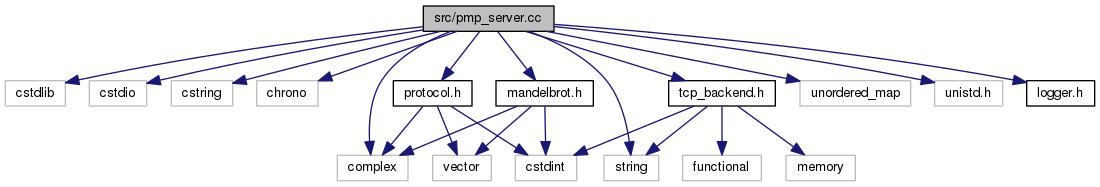
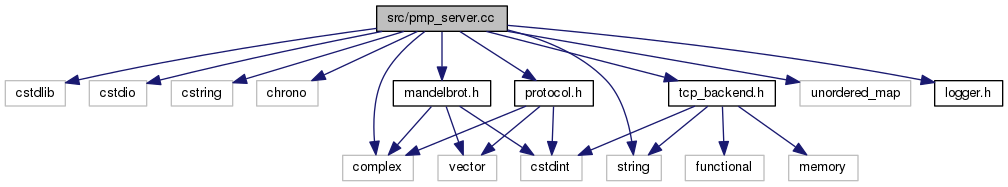
update doxygen html

diff --git a/doxygen/html/protocol_8h_source.html b/doxygen/html/protocol_8h_source.html
@@ -66,18 +66,18 @@ $(function() {
 <div class="title">protocol.h</div>  </div>
 </div><!--header-->
 <div class="contents">
-<a href="protocol_8h.html">Go to the documentation of this file.</a><div class="fragment"><div class="line"><a name="l00001"></a><span class="lineno">    1</span>&#160;<span class="preprocessor">#ifndef PROTOCOL_H_</span></div><div class="line"><a name="l00002"></a><span class="lineno">    2</span>&#160;<span class="preprocessor">#define PROTOCOL_H_</span></div><div class="line"><a name="l00003"></a><span class="lineno">    3</span>&#160;</div><div class="line"><a name="l00004"></a><span class="lineno">    4</span>&#160;<span class="preprocessor">#include &lt;cstdint&gt;</span></div><div class="line"><a name="l00005"></a><span class="lineno">    5</span>&#160;<span class="preprocessor">#include &lt;complex&gt;</span></div><div class="line"><a name="l00006"></a><span class="lineno">    6</span>&#160;<span class="preprocessor">#include &lt;vector&gt;</span></div><div class="line"><a name="l00007"></a><span class="lineno">    7</span>&#160;</div><div class="line"><a name="l00008"></a><span class="lineno">    8</span>&#160;<span class="keyword">namespace </span><a class="code" href="namespaceProtocol.html">Protocol</a></div><div class="line"><a name="l00009"></a><span class="lineno">    9</span>&#160;{</div><div class="line"><a name="l00010"></a><span class="lineno">   10</span>&#160;</div><div class="line"><a name="l00021"></a><span class="lineno"><a class="line" href="structProtocol_1_1Request.html">   21</a></span>&#160;<span class="keyword">struct </span><a class="code" href="structProtocol_1_1Request.html">Request</a></div><div class="line"><a name="l00022"></a><span class="lineno">   22</span>&#160;{</div><div class="line"><a name="l00023"></a><span class="lineno"><a class="line" href="structProtocol_1_1Request.html#a4a4739df28bbb9a1252dedeb5f918db8">   23</a></span>&#160;  std::complex&lt;double&gt; <a class="code" href="structProtocol_1_1Request.html#a4a4739df28bbb9a1252dedeb5f918db8">min_c</a>;</div><div class="line"><a name="l00024"></a><span class="lineno"><a class="line" href="structProtocol_1_1Request.html#a65b9e26893f8ab218ded9bf88f7b7003">   24</a></span>&#160;  std::complex&lt;double&gt; <a class="code" href="structProtocol_1_1Request.html#a65b9e26893f8ab218ded9bf88f7b7003">max_c</a>;</div><div class="line"><a name="l00025"></a><span class="lineno"><a class="line" href="structProtocol_1_1Request.html#a44b8822481390a24fb2dc4b3dbb50873">   25</a></span>&#160;  std::uint32_t <a class="code" href="structProtocol_1_1Request.html#a44b8822481390a24fb2dc4b3dbb50873">image_width</a>;</div><div class="line"><a name="l00026"></a><span class="lineno"><a class="line" href="structProtocol_1_1Request.html#adced81ab70e49c64830fe4ac4fc2c3c5">   26</a></span>&#160;  std::uint32_t <a class="code" href="structProtocol_1_1Request.html#adced81ab70e49c64830fe4ac4fc2c3c5">image_height</a>;</div><div class="line"><a name="l00027"></a><span class="lineno"><a class="line" href="structProtocol_1_1Request.html#a1ab4bee193a4599f5db9281fa41f31e2">   27</a></span>&#160;  std::uint32_t <a class="code" href="structProtocol_1_1Request.html#a1ab4bee193a4599f5db9281fa41f31e2">max_iter</a>;</div><div class="line"><a name="l00028"></a><span class="lineno">   28</span>&#160;};</div><div class="line"><a name="l00029"></a><span class="lineno">   29</span>&#160;</div><div class="line"><a name="l00037"></a><span class="lineno"><a class="line" href="structProtocol_1_1Response.html">   37</a></span>&#160;<span class="keyword">struct </span><a class="code" href="structProtocol_1_1Response.html">Response</a></div><div class="line"><a name="l00038"></a><span class="lineno">   38</span>&#160;{</div><div class="line"><a name="l00039"></a><span class="lineno"><a class="line" href="structProtocol_1_1Response.html#a5581498781fbccae5bb6082a37a23e6b">   39</a></span>&#160;  std::vector&lt;std::uint8_t&gt; <a class="code" href="structProtocol_1_1Response.html#a5581498781fbccae5bb6082a37a23e6b">pixels</a>;</div><div class="line"><a name="l00040"></a><span class="lineno"><a class="line" href="structProtocol_1_1Response.html#a494170c5e2442a8d35e1227f40683ec1">   40</a></span>&#160;  <span class="keywordtype">bool</span> <a class="code" href="structProtocol_1_1Response.html#a494170c5e2442a8d35e1227f40683ec1">last_message</a>;</div><div class="line"><a name="l00041"></a><span class="lineno">   41</span>&#160;};</div><div class="line"><a name="l00042"></a><span class="lineno">   42</span>&#160;</div><div class="line"><a name="l00050"></a><span class="lineno">   50</span>&#160;<span class="keyword">template</span>&lt;<span class="keyword">typename</span> T&gt;</div><div class="line"><a name="l00051"></a><span class="lineno">   51</span>&#160;std::vector&lt;std::uint8_t&gt; <a class="code" href="namespaceProtocol.html#a9eadcd3ffc63dc592406a7acd8ad68bc">serialize</a>(<span class="keyword">const</span> T&amp; message);</div><div class="line"><a name="l00052"></a><span class="lineno">   52</span>&#160;</div><div class="line"><a name="l00061"></a><span class="lineno">   61</span>&#160;<span class="keyword">template</span>&lt;<span class="keyword">typename</span> T&gt;</div><div class="line"><a name="l00062"></a><span class="lineno">   62</span>&#160;<span class="keywordtype">bool</span> <a class="code" href="namespaceProtocol.html#a8ffab1eaeb22f833bf66d459e0779e8e">deserialize</a>(<span class="keyword">const</span> std::vector&lt;std::uint8_t&gt;&amp; data, T* message);</div><div class="line"><a name="l00063"></a><span class="lineno">   63</span>&#160;</div><div class="line"><a name="l00064"></a><span class="lineno">   64</span>&#160;}</div><div class="line"><a name="l00065"></a><span class="lineno">   65</span>&#160;</div><div class="line"><a name="l00066"></a><span class="lineno">   66</span>&#160;<span class="preprocessor">#endif  // PROTOCOL_H_</span></div><div class="ttc" id="namespaceProtocol_html"><div class="ttname"><a href="namespaceProtocol.html">Protocol</a></div><div class="ttdef"><b>Definition:</b> protocol.cc:163</div></div>
-<div class="ttc" id="structProtocol_1_1Response_html_a494170c5e2442a8d35e1227f40683ec1"><div class="ttname"><a href="structProtocol_1_1Response.html#a494170c5e2442a8d35e1227f40683ec1">Protocol::Response::last_message</a></div><div class="ttdeci">bool last_message</div><div class="ttdef"><b>Definition:</b> protocol.h:40</div></div>
+<a href="protocol_8h.html">Go to the documentation of this file.</a><div class="fragment"><div class="line"><a name="l00001"></a><span class="lineno">    1</span>&#160;<span class="preprocessor">#ifndef PROTOCOL_H_</span></div><div class="line"><a name="l00002"></a><span class="lineno">    2</span>&#160;<span class="preprocessor">#define PROTOCOL_H_</span></div><div class="line"><a name="l00003"></a><span class="lineno">    3</span>&#160;</div><div class="line"><a name="l00004"></a><span class="lineno">    4</span>&#160;<span class="preprocessor">#include &lt;cstdint&gt;</span></div><div class="line"><a name="l00005"></a><span class="lineno">    5</span>&#160;<span class="preprocessor">#include &lt;complex&gt;</span></div><div class="line"><a name="l00006"></a><span class="lineno">    6</span>&#160;<span class="preprocessor">#include &lt;vector&gt;</span></div><div class="line"><a name="l00007"></a><span class="lineno">    7</span>&#160;</div><div class="line"><a name="l00008"></a><span class="lineno">    8</span>&#160;<span class="keyword">namespace </span><a class="code" href="namespaceProtocol.html">Protocol</a></div><div class="line"><a name="l00009"></a><span class="lineno">    9</span>&#160;{</div><div class="line"><a name="l00010"></a><span class="lineno">   10</span>&#160;</div><div class="line"><a name="l00014"></a><span class="lineno"><a class="line" href="structProtocol_1_1Request.html">   14</a></span>&#160;<span class="keyword">struct </span><a class="code" href="structProtocol_1_1Request.html">Request</a></div><div class="line"><a name="l00015"></a><span class="lineno">   15</span>&#160;{</div><div class="line"><a name="l00016"></a><span class="lineno"><a class="line" href="structProtocol_1_1Request.html#a4a4739df28bbb9a1252dedeb5f918db8">   16</a></span>&#160;  std::complex&lt;double&gt; <a class="code" href="structProtocol_1_1Request.html#a4a4739df28bbb9a1252dedeb5f918db8">min_c</a>;  </div><div class="line"><a name="l00017"></a><span class="lineno"><a class="line" href="structProtocol_1_1Request.html#a65b9e26893f8ab218ded9bf88f7b7003">   17</a></span>&#160;  std::complex&lt;double&gt; <a class="code" href="structProtocol_1_1Request.html#a65b9e26893f8ab218ded9bf88f7b7003">max_c</a>;  </div><div class="line"><a name="l00018"></a><span class="lineno"><a class="line" href="structProtocol_1_1Request.html#a44b8822481390a24fb2dc4b3dbb50873">   18</a></span>&#160;  std::uint32_t <a class="code" href="structProtocol_1_1Request.html#a44b8822481390a24fb2dc4b3dbb50873">image_width</a>;   </div><div class="line"><a name="l00019"></a><span class="lineno"><a class="line" href="structProtocol_1_1Request.html#adced81ab70e49c64830fe4ac4fc2c3c5">   19</a></span>&#160;  std::uint32_t <a class="code" href="structProtocol_1_1Request.html#adced81ab70e49c64830fe4ac4fc2c3c5">image_height</a>;  </div><div class="line"><a name="l00020"></a><span class="lineno"><a class="line" href="structProtocol_1_1Request.html#a1ab4bee193a4599f5db9281fa41f31e2">   20</a></span>&#160;  std::uint32_t <a class="code" href="structProtocol_1_1Request.html#a1ab4bee193a4599f5db9281fa41f31e2">max_iter</a>;      </div><div class="line"><a name="l00022"></a><span class="lineno">   22</span>&#160;};</div><div class="line"><a name="l00023"></a><span class="lineno">   23</span>&#160;</div><div class="line"><a name="l00027"></a><span class="lineno"><a class="line" href="structProtocol_1_1Response.html">   27</a></span>&#160;<span class="keyword">struct </span><a class="code" href="structProtocol_1_1Response.html">Response</a></div><div class="line"><a name="l00028"></a><span class="lineno">   28</span>&#160;{</div><div class="line"><a name="l00029"></a><span class="lineno"><a class="line" href="structProtocol_1_1Response.html#a5581498781fbccae5bb6082a37a23e6b">   29</a></span>&#160;  std::vector&lt;std::uint8_t&gt; <a class="code" href="structProtocol_1_1Response.html#a5581498781fbccae5bb6082a37a23e6b">pixels</a>;  </div><div class="line"><a name="l00033"></a><span class="lineno"><a class="line" href="structProtocol_1_1Response.html#a494170c5e2442a8d35e1227f40683ec1">   33</a></span>&#160;  <span class="keywordtype">bool</span> <a class="code" href="structProtocol_1_1Response.html#a494170c5e2442a8d35e1227f40683ec1">last_message</a>;                 </div><div class="line"><a name="l00035"></a><span class="lineno">   35</span>&#160;};</div><div class="line"><a name="l00036"></a><span class="lineno">   36</span>&#160;</div><div class="line"><a name="l00044"></a><span class="lineno">   44</span>&#160;<span class="keyword">template</span>&lt;<span class="keyword">typename</span> T&gt;</div><div class="line"><a name="l00045"></a><span class="lineno">   45</span>&#160;std::vector&lt;std::uint8_t&gt; <a class="code" href="namespaceProtocol.html#a9eadcd3ffc63dc592406a7acd8ad68bc">serialize</a>(<span class="keyword">const</span> T&amp; message);</div><div class="line"><a name="l00046"></a><span class="lineno">   46</span>&#160;</div><div class="line"><a name="l00055"></a><span class="lineno">   55</span>&#160;<span class="keyword">template</span>&lt;<span class="keyword">typename</span> T&gt;</div><div class="line"><a name="l00056"></a><span class="lineno">   56</span>&#160;<span class="keywordtype">bool</span> <a class="code" href="namespaceProtocol.html#a8ffab1eaeb22f833bf66d459e0779e8e">deserialize</a>(<span class="keyword">const</span> std::vector&lt;std::uint8_t&gt;&amp; data, T* message);</div><div class="line"><a name="l00057"></a><span class="lineno">   57</span>&#160;</div><div class="line"><a name="l00058"></a><span class="lineno">   58</span>&#160;}</div><div class="line"><a name="l00059"></a><span class="lineno">   59</span>&#160;</div><div class="line"><a name="l00060"></a><span class="lineno">   60</span>&#160;<span class="preprocessor">#endif  // PROTOCOL_H_</span></div><div class="ttc" id="namespaceProtocol_html"><div class="ttname"><a href="namespaceProtocol.html">Protocol</a></div><div class="ttdef"><b>Definition:</b> protocol.cc:163</div></div>
+<div class="ttc" id="structProtocol_1_1Response_html_a494170c5e2442a8d35e1227f40683ec1"><div class="ttname"><a href="structProtocol_1_1Response.html#a494170c5e2442a8d35e1227f40683ec1">Protocol::Response::last_message</a></div><div class="ttdeci">bool last_message</div><div class="ttdef"><b>Definition:</b> protocol.h:33</div></div>
 <div class="ttc" id="namespaceProtocol_html_a9eadcd3ffc63dc592406a7acd8ad68bc"><div class="ttname"><a href="namespaceProtocol.html#a9eadcd3ffc63dc592406a7acd8ad68bc">Protocol::serialize</a></div><div class="ttdeci">std::vector&lt; std::uint8_t &gt; serialize(const Request &amp;request)</div><div class="ttdef"><b>Definition:</b> protocol.cc:167</div></div>
-<div class="ttc" id="structProtocol_1_1Request_html_a4a4739df28bbb9a1252dedeb5f918db8"><div class="ttname"><a href="structProtocol_1_1Request.html#a4a4739df28bbb9a1252dedeb5f918db8">Protocol::Request::min_c</a></div><div class="ttdeci">std::complex&lt; double &gt; min_c</div><div class="ttdef"><b>Definition:</b> protocol.h:23</div></div>
-<div class="ttc" id="structProtocol_1_1Request_html_adced81ab70e49c64830fe4ac4fc2c3c5"><div class="ttname"><a href="structProtocol_1_1Request.html#adced81ab70e49c64830fe4ac4fc2c3c5">Protocol::Request::image_height</a></div><div class="ttdeci">std::uint32_t image_height</div><div class="ttdef"><b>Definition:</b> protocol.h:26</div></div>
-<div class="ttc" id="structProtocol_1_1Request_html_a44b8822481390a24fb2dc4b3dbb50873"><div class="ttname"><a href="structProtocol_1_1Request.html#a44b8822481390a24fb2dc4b3dbb50873">Protocol::Request::image_width</a></div><div class="ttdeci">std::uint32_t image_width</div><div class="ttdef"><b>Definition:</b> protocol.h:25</div></div>
-<div class="ttc" id="structProtocol_1_1Response_html_a5581498781fbccae5bb6082a37a23e6b"><div class="ttname"><a href="structProtocol_1_1Response.html#a5581498781fbccae5bb6082a37a23e6b">Protocol::Response::pixels</a></div><div class="ttdeci">std::vector&lt; std::uint8_t &gt; pixels</div><div class="ttdef"><b>Definition:</b> protocol.h:39</div></div>
+<div class="ttc" id="structProtocol_1_1Request_html_a4a4739df28bbb9a1252dedeb5f918db8"><div class="ttname"><a href="structProtocol_1_1Request.html#a4a4739df28bbb9a1252dedeb5f918db8">Protocol::Request::min_c</a></div><div class="ttdeci">std::complex&lt; double &gt; min_c</div><div class="ttdef"><b>Definition:</b> protocol.h:16</div></div>
+<div class="ttc" id="structProtocol_1_1Request_html_adced81ab70e49c64830fe4ac4fc2c3c5"><div class="ttname"><a href="structProtocol_1_1Request.html#adced81ab70e49c64830fe4ac4fc2c3c5">Protocol::Request::image_height</a></div><div class="ttdeci">std::uint32_t image_height</div><div class="ttdef"><b>Definition:</b> protocol.h:19</div></div>
+<div class="ttc" id="structProtocol_1_1Request_html_a44b8822481390a24fb2dc4b3dbb50873"><div class="ttname"><a href="structProtocol_1_1Request.html#a44b8822481390a24fb2dc4b3dbb50873">Protocol::Request::image_width</a></div><div class="ttdeci">std::uint32_t image_width</div><div class="ttdef"><b>Definition:</b> protocol.h:18</div></div>
+<div class="ttc" id="structProtocol_1_1Response_html_a5581498781fbccae5bb6082a37a23e6b"><div class="ttname"><a href="structProtocol_1_1Response.html#a5581498781fbccae5bb6082a37a23e6b">Protocol::Response::pixels</a></div><div class="ttdeci">std::vector&lt; std::uint8_t &gt; pixels</div><div class="ttdef"><b>Definition:</b> protocol.h:29</div></div>
 <div class="ttc" id="namespaceProtocol_html_a8ffab1eaeb22f833bf66d459e0779e8e"><div class="ttname"><a href="namespaceProtocol.html#a8ffab1eaeb22f833bf66d459e0779e8e">Protocol::deserialize</a></div><div class="ttdeci">bool deserialize(const std::vector&lt; std::uint8_t &gt; &amp;data, Request *request)</div><div class="ttdef"><b>Definition:</b> protocol.cc:179</div></div>
-<div class="ttc" id="structProtocol_1_1Request_html"><div class="ttname"><a href="structProtocol_1_1Request.html">Protocol::Request</a></div><div class="ttdef"><b>Definition:</b> protocol.h:21</div></div>
-<div class="ttc" id="structProtocol_1_1Request_html_a65b9e26893f8ab218ded9bf88f7b7003"><div class="ttname"><a href="structProtocol_1_1Request.html#a65b9e26893f8ab218ded9bf88f7b7003">Protocol::Request::max_c</a></div><div class="ttdeci">std::complex&lt; double &gt; max_c</div><div class="ttdef"><b>Definition:</b> protocol.h:24</div></div>
-<div class="ttc" id="structProtocol_1_1Response_html"><div class="ttname"><a href="structProtocol_1_1Response.html">Protocol::Response</a></div><div class="ttdef"><b>Definition:</b> protocol.h:37</div></div>
-<div class="ttc" id="structProtocol_1_1Request_html_a1ab4bee193a4599f5db9281fa41f31e2"><div class="ttname"><a href="structProtocol_1_1Request.html#a1ab4bee193a4599f5db9281fa41f31e2">Protocol::Request::max_iter</a></div><div class="ttdeci">std::uint32_t max_iter</div><div class="ttdef"><b>Definition:</b> protocol.h:27</div></div>
+<div class="ttc" id="structProtocol_1_1Request_html"><div class="ttname"><a href="structProtocol_1_1Request.html">Protocol::Request</a></div><div class="ttdoc">Represents a Request message. </div><div class="ttdef"><b>Definition:</b> protocol.h:14</div></div>
+<div class="ttc" id="structProtocol_1_1Request_html_a65b9e26893f8ab218ded9bf88f7b7003"><div class="ttname"><a href="structProtocol_1_1Request.html#a65b9e26893f8ab218ded9bf88f7b7003">Protocol::Request::max_c</a></div><div class="ttdeci">std::complex&lt; double &gt; max_c</div><div class="ttdef"><b>Definition:</b> protocol.h:17</div></div>
+<div class="ttc" id="structProtocol_1_1Response_html"><div class="ttname"><a href="structProtocol_1_1Response.html">Protocol::Response</a></div><div class="ttdoc">Represents a Response message. </div><div class="ttdef"><b>Definition:</b> protocol.h:27</div></div>
+<div class="ttc" id="structProtocol_1_1Request_html_a1ab4bee193a4599f5db9281fa41f31e2"><div class="ttname"><a href="structProtocol_1_1Request.html#a1ab4bee193a4599f5db9281fa41f31e2">Protocol::Request::max_iter</a></div><div class="ttdeci">std::uint32_t max_iter</div><div class="ttdef"><b>Definition:</b> protocol.h:20</div></div>
 </div><!-- fragment --></div><!-- contents -->
 <!-- start footer part -->
 <hr class="footer"/><address class="footer"><small>

diff --git a/doxygen/html/hierarchy.html b/doxygen/html/hierarchy.html
@@ -72,8 +72,8 @@ This inheritance list is sorted roughly, but not completely, alphabetically:</di
 <tr id="row_1_"><td class="entry"><span style="width:0px;display:inline-block;">&#160;</span><span id="arr_1_" class="arrow" onclick="toggleFolder('1_')">&#9660;</span><span class="icona"><span class="icon">C</span></span><a class="el" href="classTcpBackend_1_1Connection.html" target="_self">TcpBackend::Connection</a></td><td class="desc">Represents a connection </td></tr>
 <tr id="row_1_0_" class="even"><td class="entry"><span style="width:32px;display:inline-block;">&#160;</span><span class="icona"><span class="icon">C</span></span><a class="el" href="classTcpBackend_1_1ConnectionAsio.html" target="_self">TcpBackend::ConnectionAsio</a></td><td class="desc"></td></tr>
 <tr id="row_1_1_"><td class="entry"><span style="width:32px;display:inline-block;">&#160;</span><span class="icona"><span class="icon">C</span></span><a class="el" href="classTcpBackend_1_1ConnectionEpoll.html" target="_self">TcpBackend::ConnectionEpoll</a></td><td class="desc"></td></tr>
-<tr id="row_2_" class="even"><td class="entry"><span style="width:16px;display:inline-block;">&#160;</span><span class="icona"><span class="icon">C</span></span><a class="el" href="structProtocol_1_1Request.html" target="_self">Protocol::Request</a></td><td class="desc"></td></tr>
-<tr id="row_3_"><td class="entry"><span style="width:16px;display:inline-block;">&#160;</span><span class="icona"><span class="icon">C</span></span><a class="el" href="structProtocol_1_1Response.html" target="_self">Protocol::Response</a></td><td class="desc"></td></tr>
+<tr id="row_2_" class="even"><td class="entry"><span style="width:16px;display:inline-block;">&#160;</span><span class="icona"><span class="icon">C</span></span><a class="el" href="structProtocol_1_1Request.html" target="_self">Protocol::Request</a></td><td class="desc">Represents a <a class="el" href="structProtocol_1_1Request.html" title="Represents a Request message. ">Request</a> message </td></tr>
+<tr id="row_3_"><td class="entry"><span style="width:16px;display:inline-block;">&#160;</span><span class="icona"><span class="icon">C</span></span><a class="el" href="structProtocol_1_1Response.html" target="_self">Protocol::Response</a></td><td class="desc">Represents a <a class="el" href="structProtocol_1_1Response.html" title="Represents a Response message. ">Response</a> message </td></tr>
 <tr id="row_4_" class="even"><td class="entry"><span style="width:0px;display:inline-block;">&#160;</span><span id="arr_4_" class="arrow" onclick="toggleFolder('4_')">&#9660;</span><span class="icona"><span class="icon">C</span></span><a class="el" href="classTcpBackend_1_1Server.html" target="_self">TcpBackend::Server</a></td><td class="desc">Used to accept new connections </td></tr>
 <tr id="row_4_0_"><td class="entry"><span style="width:32px;display:inline-block;">&#160;</span><span class="icona"><span class="icon">C</span></span><a class="el" href="classTcpBackend_1_1ServerAsio.html" target="_self">TcpBackend::ServerAsio</a></td><td class="desc"></td></tr>
 <tr id="row_4_1_" class="even"><td class="entry"><span style="width:32px;display:inline-block;">&#160;</span><span class="icona"><span class="icon">C</span></span><a class="el" href="classTcpBackend_1_1ServerEpoll.html" target="_self">TcpBackend::ServerEpoll</a></td><td class="desc"></td></tr>

diff --git a/doxygen/html/classTcpBackend_1_1Connection.html b/doxygen/html/classTcpBackend_1_1Connection.html
@@ -86,8 +86,6 @@ Inheritance diagram for TcpBackend::Connection:</div>
 Collaboration diagram for TcpBackend::Connection:</div>
 <div class="dyncontent">
 <div class="center"><img src="classTcpBackend_1_1Connection__coll__graph.png" border="0" usemap="#TcpBackend_1_1Connection_coll__map" alt="Collaboration graph"/></div>
-<map name="TcpBackend_1_1Connection_coll__map" id="TcpBackend_1_1Connection_coll__map">
-</map>
 </div>
 <table class="memberdecls">
 <tr class="heading"><td colspan="2"><h2 class="groupheader"><a name="pub-methods"></a>
@@ -248,13 +246,32 @@ Public Member Functions</h2></td></tr>
 <p>These callbacks must be set before any read or write procedures are started.</p>
 <dl class="params"><dt>Parameters</dt><dd>
   <table class="params">
-    <tr><td class="paramdir">[in]</td><td class="paramname">on_disconnected</td><td>OnDisconnected callback, see  </td></tr>
-    <tr><td class="paramdir">[in]</td><td class="paramname">on_read</td><td>OnRead callback, see  </td></tr>
-    <tr><td class="paramdir">[in]</td><td class="paramname">on_write</td><td>OnWrite callback, see  </td></tr>
-    <tr><td class="paramdir">[in]</td><td class="paramname">on_error</td><td>OnError callback, see  </td></tr>
+    <tr><td class="paramdir">[in]</td><td class="paramname">on_disconnected</td><td>OnDisconnected callback, </td></tr>
   </table>
   </dd>
 </dl>
+<dl class="section see"><dt>See also</dt><dd><a class="el" href="namespaceTcpBackend.html#a2ce9b1a1f46bfa6c4b1ad38c8aa262a6" title="OnDisconnected callback. ">OnDisconnected</a> </dd></dl>
+<dl class="params"><dt>Parameters</dt><dd>
+  <table class="params">
+    <tr><td class="paramdir">[in]</td><td class="paramname">on_read</td><td>OnRead callback, </td></tr>
+  </table>
+  </dd>
+</dl>
+<dl class="section see"><dt>See also</dt><dd><a class="el" href="namespaceTcpBackend.html#a7d2c9f63e8017af705255d4ed08264a7" title="OnRead callback. ">OnRead</a> </dd></dl>
+<dl class="params"><dt>Parameters</dt><dd>
+  <table class="params">
+    <tr><td class="paramdir">[in]</td><td class="paramname">on_write</td><td>OnWrite callback, </td></tr>
+  </table>
+  </dd>
+</dl>
+<dl class="section see"><dt>See also</dt><dd><a class="el" href="namespaceTcpBackend.html#a670c71abc926680e1ea574a5f3a99135" title="OnWrite callback. ">OnWrite</a> </dd></dl>
+<dl class="params"><dt>Parameters</dt><dd>
+  <table class="params">
+    <tr><td class="paramdir">[in]</td><td class="paramname">on_error</td><td>OnError callback, </td></tr>
+  </table>
+  </dd>
+</dl>
+<dl class="section see"><dt>See also</dt><dd><a class="el" href="namespaceTcpBackend.html#a17e8f044749312a6692cd0135565cbc4" title="OnError callback. ">OnError</a> </dd></dl>
 
 <p>Implemented in <a class="el" href="classTcpBackend_1_1ConnectionAsio.html#aee6f9ded99c8382d3daaf2aa3d8890ee">TcpBackend::ConnectionAsio</a>, and <a class="el" href="classTcpBackend_1_1ConnectionEpoll.html#a18ea919efe6f7c45c3d509db073f862f">TcpBackend::ConnectionEpoll</a>.</p>
 

diff --git a/doxygen/html/annotated.html b/doxygen/html/annotated.html
@@ -65,8 +65,8 @@ $(function() {
 <div class="textblock">Here are the data structures with brief descriptions:</div><div class="directory">
 <div class="levels">[detail level <span onclick="javascript:toggleLevel(1);">1</span><span onclick="javascript:toggleLevel(2);">2</span>]</div><table class="directory">
 <tr id="row_0_" class="even"><td class="entry"><span style="width:0px;display:inline-block;">&#160;</span><span id="arr_0_" class="arrow" onclick="toggleFolder('0_')">&#9660;</span><span class="icona"><span class="icon">N</span></span><a class="el" href="namespaceProtocol.html" target="_self">Protocol</a></td><td class="desc"></td></tr>
-<tr id="row_0_0_"><td class="entry"><span style="width:32px;display:inline-block;">&#160;</span><span class="icona"><span class="icon">C</span></span><a class="el" href="structProtocol_1_1Request.html" target="_self">Request</a></td><td class="desc"></td></tr>
-<tr id="row_0_1_" class="even"><td class="entry"><span style="width:32px;display:inline-block;">&#160;</span><span class="icona"><span class="icon">C</span></span><a class="el" href="structProtocol_1_1Response.html" target="_self">Response</a></td><td class="desc"></td></tr>
+<tr id="row_0_0_"><td class="entry"><span style="width:32px;display:inline-block;">&#160;</span><span class="icona"><span class="icon">C</span></span><a class="el" href="structProtocol_1_1Request.html" target="_self">Request</a></td><td class="desc">Represents a <a class="el" href="structProtocol_1_1Request.html" title="Represents a Request message. ">Request</a> message </td></tr>
+<tr id="row_0_1_" class="even"><td class="entry"><span style="width:32px;display:inline-block;">&#160;</span><span class="icona"><span class="icon">C</span></span><a class="el" href="structProtocol_1_1Response.html" target="_self">Response</a></td><td class="desc">Represents a <a class="el" href="structProtocol_1_1Response.html" title="Represents a Response message. ">Response</a> message </td></tr>
 <tr id="row_1_"><td class="entry"><span style="width:0px;display:inline-block;">&#160;</span><span id="arr_1_" class="arrow" onclick="toggleFolder('1_')">&#9660;</span><span class="icona"><span class="icon">N</span></span><a class="el" href="namespaceTcpBackend.html" target="_self">TcpBackend</a></td><td class="desc"></td></tr>
 <tr id="row_1_0_" class="even"><td class="entry"><span style="width:32px;display:inline-block;">&#160;</span><span class="icona"><span class="icon">C</span></span><a class="el" href="classTcpBackend_1_1Client.html" target="_self">Client</a></td><td class="desc">Used to start a connection </td></tr>
 <tr id="row_1_1_"><td class="entry"><span style="width:32px;display:inline-block;">&#160;</span><span class="icona"><span class="icon">C</span></span><a class="el" href="classTcpBackend_1_1ClientAsio.html" target="_self">ClientAsio</a></td><td class="desc"></td></tr>

diff --git a/doxygen/html/structProtocol_1_1Request.html b/doxygen/html/structProtocol_1_1Request.html
@@ -69,13 +69,14 @@ $(function() {
 </div><!--header-->
 <div class="contents">
 
+<p>Represents a <a class="el" href="structProtocol_1_1Request.html" title="Represents a Request message. ">Request</a> message.  
+ <a href="structProtocol_1_1Request.html#details">More...</a></p>
+
 <p><code>#include &lt;<a class="el" href="protocol_8h_source.html">protocol.h</a>&gt;</code></p>
 <div class="dynheader">
 Collaboration diagram for Protocol::Request:</div>
 <div class="dyncontent">
 <div class="center"><img src="structProtocol_1_1Request__coll__graph.png" border="0" usemap="#Protocol_1_1Request_coll__map" alt="Collaboration graph"/></div>
-<map name="Protocol_1_1Request_coll__map" id="Protocol_1_1Request_coll__map">
-</map>
 </div>
 <table class="memberdecls">
 <tr class="heading"><td colspan="2"><h2 class="groupheader"><a name="pub-attribs"></a>
@@ -91,7 +92,9 @@ Data Fields</h2></td></tr>
 <tr class="memitem:a1ab4bee193a4599f5db9281fa41f31e2"><td class="memItemLeft" align="right" valign="top">std::uint32_t&#160;</td><td class="memItemRight" valign="bottom"><a class="el" href="structProtocol_1_1Request.html#a1ab4bee193a4599f5db9281fa41f31e2">max_iter</a></td></tr>
 <tr class="separator:a1ab4bee193a4599f5db9281fa41f31e2"><td class="memSeparator" colspan="2">&#160;</td></tr>
 </table>
-<h2 class="groupheader">Field Documentation</h2>
+<a name="details" id="details"></a><h2 class="groupheader">Detailed Description</h2>
+<div class="textblock"><p>Represents a <a class="el" href="structProtocol_1_1Request.html" title="Represents a Request message. ">Request</a> message. </p>
+</div><h2 class="groupheader">Field Documentation</h2>
 <a id="adced81ab70e49c64830fe4ac4fc2c3c5"></a>
 <h2 class="memtitle"><span class="permalink"><a href="#adced81ab70e49c64830fe4ac4fc2c3c5">&#9670;&nbsp;</a></span>image_height</h2>
 
@@ -103,6 +106,7 @@ Data Fields</h2></td></tr>
         </tr>
       </table>
 </div><div class="memdoc">
+<p>Image height in pixels </p>
 
 </div>
 </div>
@@ -117,6 +121,7 @@ Data Fields</h2></td></tr>
         </tr>
       </table>
 </div><div class="memdoc">
+<p>Image width in pixels </p>
 
 </div>
 </div>
@@ -131,6 +136,7 @@ Data Fields</h2></td></tr>
         </tr>
       </table>
 </div><div class="memdoc">
+<p>The maximum complex value </p>
 
 </div>
 </div>
@@ -145,6 +151,7 @@ Data Fields</h2></td></tr>
         </tr>
       </table>
 </div><div class="memdoc">
+<p>Maximum number of iterations per sample (image pixel) </p>
 
 </div>
 </div>
@@ -159,6 +166,7 @@ Data Fields</h2></td></tr>
         </tr>
       </table>
 </div><div class="memdoc">
+<p>The minimum complex value </p>
 
 </div>
 </div>

diff --git a/doxygen/html/structProtocol_1_1Response.html b/doxygen/html/structProtocol_1_1Response.html
@@ -69,13 +69,14 @@ $(function() {
 </div><!--header-->
 <div class="contents">
 
+<p>Represents a <a class="el" href="structProtocol_1_1Response.html" title="Represents a Response message. ">Response</a> message.  
+ <a href="structProtocol_1_1Response.html#details">More...</a></p>
+
 <p><code>#include &lt;<a class="el" href="protocol_8h_source.html">protocol.h</a>&gt;</code></p>
 <div class="dynheader">
 Collaboration diagram for Protocol::Response:</div>
 <div class="dyncontent">
 <div class="center"><img src="structProtocol_1_1Response__coll__graph.png" border="0" usemap="#Protocol_1_1Response_coll__map" alt="Collaboration graph"/></div>
-<map name="Protocol_1_1Response_coll__map" id="Protocol_1_1Response_coll__map">
-</map>
 </div>
 <table class="memberdecls">
 <tr class="heading"><td colspan="2"><h2 class="groupheader"><a name="pub-attribs"></a>
@@ -85,7 +86,9 @@ Data Fields</h2></td></tr>
 <tr class="memitem:a494170c5e2442a8d35e1227f40683ec1"><td class="memItemLeft" align="right" valign="top">bool&#160;</td><td class="memItemRight" valign="bottom"><a class="el" href="structProtocol_1_1Response.html#a494170c5e2442a8d35e1227f40683ec1">last_message</a></td></tr>
 <tr class="separator:a494170c5e2442a8d35e1227f40683ec1"><td class="memSeparator" colspan="2">&#160;</td></tr>
 </table>
-<h2 class="groupheader">Field Documentation</h2>
+<a name="details" id="details"></a><h2 class="groupheader">Detailed Description</h2>
+<div class="textblock"><p>Represents a <a class="el" href="structProtocol_1_1Response.html" title="Represents a Response message. ">Response</a> message. </p>
+</div><h2 class="groupheader">Field Documentation</h2>
 <a id="a494170c5e2442a8d35e1227f40683ec1"></a>
 <h2 class="memtitle"><span class="permalink"><a href="#a494170c5e2442a8d35e1227f40683ec1">&#9670;&nbsp;</a></span>last_message</h2>
 
@@ -97,6 +100,7 @@ Data Fields</h2></td></tr>
         </tr>
       </table>
 </div><div class="memdoc">
+<p>True if this is the last response message </p>
 
 </div>
 </div>
@@ -111,6 +115,7 @@ Data Fields</h2></td></tr>
         </tr>
       </table>
 </div><div class="memdoc">
+<p>Array of pixels (8bpp) Note that this array may not be larger than 2^15. </p><dl class="section see"><dt>See also</dt><dd><a class="el" href="protocol_8cc.html">protocol.cc</a> </dd></dl>
 
 </div>
 </div>

diff --git a/doxygen/html/classTcpBackend_1_1ConnectionAsio.html b/doxygen/html/classTcpBackend_1_1ConnectionAsio.html
@@ -238,13 +238,32 @@ Public Member Functions</h2></td></tr>
 <p>These callbacks must be set before any read or write procedures are started.</p>
 <dl class="params"><dt>Parameters</dt><dd>
   <table class="params">
-    <tr><td class="paramdir">[in]</td><td class="paramname">on_disconnected</td><td>OnDisconnected callback, see  </td></tr>
-    <tr><td class="paramdir">[in]</td><td class="paramname">on_read</td><td>OnRead callback, see  </td></tr>
-    <tr><td class="paramdir">[in]</td><td class="paramname">on_write</td><td>OnWrite callback, see  </td></tr>
-    <tr><td class="paramdir">[in]</td><td class="paramname">on_error</td><td>OnError callback, see  </td></tr>
+    <tr><td class="paramdir">[in]</td><td class="paramname">on_disconnected</td><td>OnDisconnected callback, </td></tr>
   </table>
   </dd>
 </dl>
+<dl class="section see"><dt>See also</dt><dd><a class="el" href="namespaceTcpBackend.html#a2ce9b1a1f46bfa6c4b1ad38c8aa262a6" title="OnDisconnected callback. ">OnDisconnected</a> </dd></dl>
+<dl class="params"><dt>Parameters</dt><dd>
+  <table class="params">
+    <tr><td class="paramdir">[in]</td><td class="paramname">on_read</td><td>OnRead callback, </td></tr>
+  </table>
+  </dd>
+</dl>
+<dl class="section see"><dt>See also</dt><dd><a class="el" href="namespaceTcpBackend.html#a7d2c9f63e8017af705255d4ed08264a7" title="OnRead callback. ">OnRead</a> </dd></dl>
+<dl class="params"><dt>Parameters</dt><dd>
+  <table class="params">
+    <tr><td class="paramdir">[in]</td><td class="paramname">on_write</td><td>OnWrite callback, </td></tr>
+  </table>
+  </dd>
+</dl>
+<dl class="section see"><dt>See also</dt><dd><a class="el" href="namespaceTcpBackend.html#a670c71abc926680e1ea574a5f3a99135" title="OnWrite callback. ">OnWrite</a> </dd></dl>
+<dl class="params"><dt>Parameters</dt><dd>
+  <table class="params">
+    <tr><td class="paramdir">[in]</td><td class="paramname">on_error</td><td>OnError callback, </td></tr>
+  </table>
+  </dd>
+</dl>
+<dl class="section see"><dt>See also</dt><dd><a class="el" href="namespaceTcpBackend.html#a17e8f044749312a6692cd0135565cbc4" title="OnError callback. ">OnError</a> </dd></dl>
 
 <p>Implements <a class="el" href="classTcpBackend_1_1Connection.html#a653318aa6306df78e53af47ae9d05e04">TcpBackend::Connection</a>.</p>
 

diff --git a/doxygen/html/classTcpBackend_1_1ConnectionEpoll.html b/doxygen/html/classTcpBackend_1_1ConnectionEpoll.html
@@ -238,13 +238,32 @@ Public Member Functions</h2></td></tr>
 <p>These callbacks must be set before any read or write procedures are started.</p>
 <dl class="params"><dt>Parameters</dt><dd>
   <table class="params">
-    <tr><td class="paramdir">[in]</td><td class="paramname">on_disconnected</td><td>OnDisconnected callback, see  </td></tr>
-    <tr><td class="paramdir">[in]</td><td class="paramname">on_read</td><td>OnRead callback, see  </td></tr>
-    <tr><td class="paramdir">[in]</td><td class="paramname">on_write</td><td>OnWrite callback, see  </td></tr>
-    <tr><td class="paramdir">[in]</td><td class="paramname">on_error</td><td>OnError callback, see  </td></tr>
+    <tr><td class="paramdir">[in]</td><td class="paramname">on_disconnected</td><td>OnDisconnected callback, </td></tr>
   </table>
   </dd>
 </dl>
+<dl class="section see"><dt>See also</dt><dd><a class="el" href="namespaceTcpBackend.html#a2ce9b1a1f46bfa6c4b1ad38c8aa262a6" title="OnDisconnected callback. ">OnDisconnected</a> </dd></dl>
+<dl class="params"><dt>Parameters</dt><dd>
+  <table class="params">
+    <tr><td class="paramdir">[in]</td><td class="paramname">on_read</td><td>OnRead callback, </td></tr>
+  </table>
+  </dd>
+</dl>
+<dl class="section see"><dt>See also</dt><dd><a class="el" href="namespaceTcpBackend.html#a7d2c9f63e8017af705255d4ed08264a7" title="OnRead callback. ">OnRead</a> </dd></dl>
+<dl class="params"><dt>Parameters</dt><dd>
+  <table class="params">
+    <tr><td class="paramdir">[in]</td><td class="paramname">on_write</td><td>OnWrite callback, </td></tr>
+  </table>
+  </dd>
+</dl>
+<dl class="section see"><dt>See also</dt><dd><a class="el" href="namespaceTcpBackend.html#a670c71abc926680e1ea574a5f3a99135" title="OnWrite callback. ">OnWrite</a> </dd></dl>
+<dl class="params"><dt>Parameters</dt><dd>
+  <table class="params">
+    <tr><td class="paramdir">[in]</td><td class="paramname">on_error</td><td>OnError callback, </td></tr>
+  </table>
+  </dd>
+</dl>
+<dl class="section see"><dt>See also</dt><dd><a class="el" href="namespaceTcpBackend.html#a17e8f044749312a6692cd0135565cbc4" title="OnError callback. ">OnError</a> </dd></dl>
 
 <p>Implements <a class="el" href="classTcpBackend_1_1Connection.html#a653318aa6306df78e53af47ae9d05e04">TcpBackend::Connection</a>.</p>
 

diff --git a/doxygen/html/protocol_8h.html b/doxygen/html/protocol_8h.html
@@ -77,8 +77,6 @@ $(function() {
 Include dependency graph for protocol.h:</div>
 <div class="dyncontent">
 <div class="center"><img src="protocol_8h__incl.png" border="0" usemap="#src_2protocol_8h" alt=""/></div>
-<map name="src_2protocol_8h" id="src_2protocol_8h">
-</map>
 </div>
 </div><div class="textblock"><div class="dynheader">
 This graph shows which files directly or indirectly include this file:</div>
@@ -96,8 +94,10 @@ This graph shows which files directly or indirectly include this file:</div>
 <tr class="heading"><td colspan="2"><h2 class="groupheader"><a name="nested-classes"></a>
 Data Structures</h2></td></tr>
 <tr class="memitem:"><td class="memItemLeft" align="right" valign="top">struct &#160;</td><td class="memItemRight" valign="bottom"><a class="el" href="structProtocol_1_1Request.html">Protocol::Request</a></td></tr>
+<tr class="memdesc:"><td class="mdescLeft">&#160;</td><td class="mdescRight">Represents a <a class="el" href="structProtocol_1_1Request.html" title="Represents a Request message. ">Request</a> message.  <a href="structProtocol_1_1Request.html#details">More...</a><br /></td></tr>
 <tr class="separator:"><td class="memSeparator" colspan="2">&#160;</td></tr>
 <tr class="memitem:"><td class="memItemLeft" align="right" valign="top">struct &#160;</td><td class="memItemRight" valign="bottom"><a class="el" href="structProtocol_1_1Response.html">Protocol::Response</a></td></tr>
+<tr class="memdesc:"><td class="mdescLeft">&#160;</td><td class="mdescRight">Represents a <a class="el" href="structProtocol_1_1Response.html" title="Represents a Response message. ">Response</a> message.  <a href="structProtocol_1_1Response.html#details">More...</a><br /></td></tr>
 <tr class="separator:"><td class="memSeparator" colspan="2">&#160;</td></tr>
 </table><table class="memberdecls">
 <tr class="heading"><td colspan="2"><h2 class="groupheader"><a name="namespaces"></a>

diff --git a/doxygen/html/pmp__server_8cc.html b/doxygen/html/pmp__server_8cc.html
@@ -75,7 +75,6 @@ $(function() {
 <code>#include &lt;complex&gt;</code><br />
 <code>#include &lt;string&gt;</code><br />
 <code>#include &lt;unordered_map&gt;</code><br />
-<code>#include &lt;unistd.h&gt;</code><br />
 <code>#include &quot;<a class="el" href="tcp__backend_8h_source.html">tcp_backend.h</a>&quot;</code><br />
 <code>#include &quot;<a class="el" href="protocol_8h_source.html">protocol.h</a>&quot;</code><br />
 <code>#include &quot;<a class="el" href="mandelbrot_8h_source.html">mandelbrot.h</a>&quot;</code><br />
@@ -85,10 +84,10 @@ Include dependency graph for pmp_server.cc:</div>
 <div class="dyncontent">
 <div class="center"><img src="pmp__server_8cc__incl.png" border="0" usemap="#src_2pmp__server_8cc" alt=""/></div>
 <map name="src_2pmp__server_8cc" id="src_2pmp__server_8cc">
-<area shape="rect" id="node10" href="tcp__backend_8h.html" title="tcp_backend.h" alt="" coords="669,80,775,107"/>
-<area shape="rect" id="node14" href="protocol_8h.html" title="protocol.h" alt="" coords="393,80,472,107"/>
-<area shape="rect" id="node16" href="mandelbrot_8h.html" title="mandelbrot.h" alt="" coords="496,80,593,107"/>
-<area shape="rect" id="node17" href="logger_8h.html" title="logger.h" alt="" coords="1027,80,1095,107"/>
+<area shape="rect" id="node9" href="tcp__backend_8h.html" title="tcp_backend.h" alt="" coords="669,80,775,107"/>
+<area shape="rect" id="node13" href="protocol_8h.html" title="protocol.h" alt="" coords="515,80,593,107"/>
+<area shape="rect" id="node15" href="mandelbrot_8h.html" title="mandelbrot.h" alt="" coords="393,80,491,107"/>
+<area shape="rect" id="node16" href="logger_8h.html" title="logger.h" alt="" coords="935,80,1003,107"/>
 </map>
 </div>
 </div><table class="memberdecls">

diff --git a/doxygen/html/namespaceProtocol.html b/doxygen/html/namespaceProtocol.html
@@ -69,8 +69,10 @@ $(function() {
 <tr class="heading"><td colspan="2"><h2 class="groupheader"><a name="nested-classes"></a>
 Data Structures</h2></td></tr>
 <tr class="memitem:"><td class="memItemLeft" align="right" valign="top">struct &#160;</td><td class="memItemRight" valign="bottom"><a class="el" href="structProtocol_1_1Request.html">Request</a></td></tr>
+<tr class="memdesc:"><td class="mdescLeft">&#160;</td><td class="mdescRight">Represents a <a class="el" href="structProtocol_1_1Request.html" title="Represents a Request message. ">Request</a> message.  <a href="structProtocol_1_1Request.html#details">More...</a><br /></td></tr>
 <tr class="separator:"><td class="memSeparator" colspan="2">&#160;</td></tr>
 <tr class="memitem:"><td class="memItemLeft" align="right" valign="top">struct &#160;</td><td class="memItemRight" valign="bottom"><a class="el" href="structProtocol_1_1Response.html">Response</a></td></tr>
+<tr class="memdesc:"><td class="mdescLeft">&#160;</td><td class="mdescRight">Represents a <a class="el" href="structProtocol_1_1Response.html" title="Represents a Response message. ">Response</a> message.  <a href="structProtocol_1_1Response.html#details">More...</a><br /></td></tr>
 <tr class="separator:"><td class="memSeparator" colspan="2">&#160;</td></tr>
 </table><table class="memberdecls">
 <tr class="heading"><td colspan="2"><h2 class="groupheader"><a name="func-members"></a>

diff --git a/doxygen/html/classTcpBackend_1_1Server.html b/doxygen/html/classTcpBackend_1_1Server.html
@@ -86,8 +86,6 @@ Inheritance diagram for TcpBackend::Server:</div>
 Collaboration diagram for TcpBackend::Server:</div>
 <div class="dyncontent">
 <div class="center"><img src="classTcpBackend_1_1Server__coll__graph.png" border="0" usemap="#TcpBackend_1_1Server_coll__map" alt="Collaboration graph"/></div>
-<map name="TcpBackend_1_1Server_coll__map" id="TcpBackend_1_1Server_coll__map">
-</map>
 </div>
 <table class="memberdecls">
 <tr class="heading"><td colspan="2"><h2 class="groupheader"><a name="pub-methods"></a>
@@ -100,7 +98,7 @@ Public Member Functions</h2></td></tr>
 </table>
 <a name="details" id="details"></a><h2 class="groupheader">Detailed Description</h2>
 <div class="textblock"><p>Used to accept new connections. </p>
-<p>See  </p>
+<dl class="section see"><dt>See also</dt><dd><a class="el" href="namespaceTcpBackend.html#ad25ce62084f2e8ec8e6bd07d7510b7f2" title="Creates a TCP server. ">create_server</a> </dd></dl>
 </div><h2 class="groupheader">Constructor &amp; Destructor Documentation</h2>
 <a id="a567fe5cf7bc9ed07eec98bc21ba5b294"></a>
 <h2 class="memtitle"><span class="permalink"><a href="#a567fe5cf7bc9ed07eec98bc21ba5b294">&#9670;&nbsp;</a></span>~Server()</h2>
